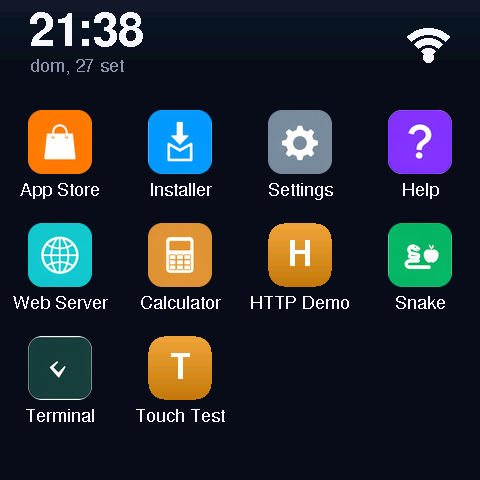
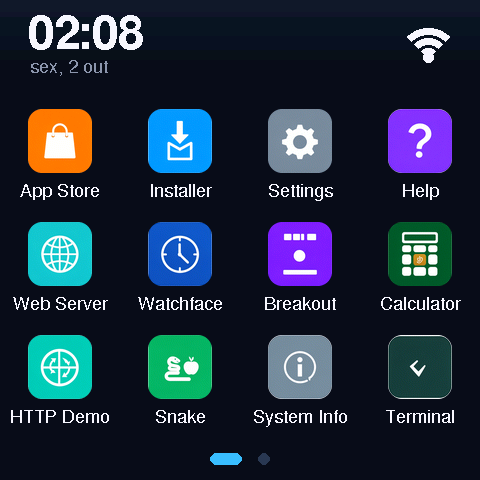
Docs: screenshots atuais (SmartDisplay + watch) e adeus as telas da era api 8
Telas recapturadas do framebuffer real via celerctl screencap:
- SmartDisplay 4" no firmware 1.4/API 13: launcher, App Store, Settings,
  Terminal (teclado acoplado) e Snake — substituem as capturas de 27/09,
  anteriores a onda da identidade CelerOS nos apps
- Watch Waveshare (novidade): watchface (papel de parede, passos, bateria)
  e launcher no vidro redondo 412x502 — entram no README e na pagina
  dedicada da wiki (EN + pt-BR)

Imagens velhas removidas: celeros-splash/about (sem como recapturar splash
pos-boot e About virou submenu), as 8 telas da CYD (firmware api 8, layout
antigo) e o cyd-webscreen (identidade antiga no espelho). A secao CYD do
README fica com o texto "o que esperar" + foto da placa; fotos de hardware
(cyd/dog/smartdisplay) continuam validas. zzpet-dog-photo.jpg saiu (nunca
referenciado).

Wiki: Home (EN + pt-BR) mostra launcher/App Store/Settings + par do watch;
Supported-Boards/Placas perdem a tabela de screenshots da CYD; as paginas
Web-Interface perdem o webscreen velho (texto continua).

Nota de bancada: screencap da CYD no 1.4.1 trava — o cabecalho do
SCREENSHOT so volta apos ~150 s (leitura do painel ILI9341 por SPI, sem
framebuffer na PSRAM) e o stream nao completa; na 1.2.0 funcionava. Por
isso a CYD ficou sem telas novas — merece uma olhada no caminho readRect.

diff --git a/README.pt-BR.md b/README.pt-BR.md
@@ -16,30 +16,23 @@ desenvolvimento.
 
 ## Screenshots
 
-| Splash de boot | Launcher | Terminal (teclado acoplado) |
-| :---: | :---: | :---: |
-| <img src="Documentation/assets/imgs/celeros-splash.png" width="260" alt="Splash de boot"/> | <img src="Documentation/assets/imgs/celeros-launcher.png" width="260" alt="Launcher"/> | <img src="Documentation/assets/imgs/celeros-terminal.png" width="260" alt="Terminal"/> |
-| **Settings → Sobre** | **Snake** | |
-| <img src="Documentation/assets/imgs/celeros-about.png" width="260" alt="Sobre"/> | <img src="Documentation/assets/imgs/celeros-snake.png" width="260" alt="Snake"/> | |
-
-*Capturas do framebuffer real de uma SmartDisplay 4" via `celerctl screencap`.*
-
-### CYD (2.8" 320x240, sem PSRAM)
-
 | Launcher | App Store | Settings |
 | :---: | :---: | :---: |
-| <img src="Documentation/assets/imgs/cyd-launcher.png" width="260" alt="Launcher na CYD"/> | <img src="Documentation/assets/imgs/cyd-appstore.png" width="260" alt="App Store na CYD"/> | <img src="Documentation/assets/imgs/cyd-settings.png" width="260" alt="Settings na CYD"/> |
-| **Terminal (teclado acoplado)** | **HTTP Demo** | **Snake** |
-| <img src="Documentation/assets/imgs/cyd-terminal.png" width="260" alt="Terminal na CYD"/> | <img src="Documentation/assets/imgs/cyd-httpdemo.png" width="260" alt="HTTP Demo na CYD"/> | <img src="Documentation/assets/imgs/cyd-snake.png" width="260" alt="Snake na CYD"/> |
-| **Settings → Sobre** | **Tela ao vivo no navegador** | |
-| <img src="Documentation/assets/imgs/cyd-about.png" width="260" alt="Sobre na CYD"/> | <img src="Documentation/assets/imgs/cyd-webscreen.png" width="260" alt="CYD espelhada no navegador"/> | |
+| <img src="Documentation/assets/imgs/celeros-launcher.png" width="260" alt="Launcher"/> | <img src="Documentation/assets/imgs/celeros-appstore.png" width="260" alt="App Store"/> | <img src="Documentation/assets/imgs/celeros-settings.png" width="260" alt="Settings"/> |
+| **Terminal (teclado acoplado)** | **Snake** | |
+| <img src="Documentation/assets/imgs/celeros-terminal.png" width="260" alt="Terminal"/> | <img src="Documentation/assets/imgs/celeros-snake.png" width="260" alt="Snake"/> | |
 
-*Capturas de uma ESP32-2432S028R clássica via `celerctl screencap` (firmware
-API 8 — acentos Latin-1 na tela). A última é o espelho web `/screen`: o
-navegador mostra a tela ao vivo e os cliques viram toques (veja a
-[página Interface web da wiki](https://github.com/maikramer/CelerOS/wiki/Interface-Web)).*
+*Capturas do framebuffer real de uma SmartDisplay 4" (firmware 1.4, API nível 13) via `celerctl screencap`.*
 
-#### O que esperar da CYD
+### Watch Waveshare AMOLED 2.06
+
+| Watchface (tela inicial) | Launcher |
+| :---: | :---: |
+| <img src="Documentation/assets/imgs/watch-watchface.png" width="220" alt="Mostrador do relógio"/> | <img src="Documentation/assets/imgs/watch-launcher.png" width="220" alt="Launcher do watch"/> |
+
+*O watch boota direto no mostrador (papel de parede, passos, bateria); swipe pra cima abre o launcher. Mesmo `celerctl screencap`, pelo USB nativo.*
+
+### CYD (2.8" 320x240, sem PSRAM)
 
 A CYD roda o mesmo firmware e os mesmos apps, mas é uma máquina bem menor que
 a SmartDisplay (ESP32 com ~320 KB de RAM e sem PSRAM, painel SPI de 2.8" e

diff --git a/README.md b/README.md
@@ -15,30 +15,23 @@ development.
 
 ## Screenshots
 
-| Boot splash | Launcher | Terminal (docked keyboard) |
-| :---: | :---: | :---: |
-| <img src="Documentation/assets/imgs/celeros-splash.png" width="260" alt="Boot splash"/> | <img src="Documentation/assets/imgs/celeros-launcher.png" width="260" alt="Launcher"/> | <img src="Documentation/assets/imgs/celeros-terminal.png" width="260" alt="Terminal"/> |
-| **Settings → About** | **Snake** | |
-| <img src="Documentation/assets/imgs/celeros-about.png" width="260" alt="About"/> | <img src="Documentation/assets/imgs/celeros-snake.png" width="260" alt="Snake"/> | |
-
-*Screenshots captured from the real framebuffer of a SmartDisplay 4" via `celerctl screencap`.*
-
-### CYD (2.8" 320x240, no PSRAM)
-
 | Launcher | App Store | Settings |
 | :---: | :---: | :---: |
-| <img src="Documentation/assets/imgs/cyd-launcher.png" width="260" alt="CYD launcher"/> | <img src="Documentation/assets/imgs/cyd-appstore.png" width="260" alt="CYD App Store"/> | <img src="Documentation/assets/imgs/cyd-settings.png" width="260" alt="CYD Settings"/> |
-| **Terminal (docked keyboard)** | **HTTP Demo** | **Snake** |
-| <img src="Documentation/assets/imgs/cyd-terminal.png" width="260" alt="CYD Terminal"/> | <img src="Documentation/assets/imgs/cyd-httpdemo.png" width="260" alt="CYD HTTP Demo"/> | <img src="Documentation/assets/imgs/cyd-snake.png" width="260" alt="CYD Snake"/> |
-| **Settings → About** | **Live screen from the browser** | |
-| <img src="Documentation/assets/imgs/cyd-about.png" width="260" alt="CYD About"/> | <img src="Documentation/assets/imgs/cyd-webscreen.png" width="260" alt="CYD mirrored in the browser"/> | |
+| <img src="Documentation/assets/imgs/celeros-launcher.png" width="260" alt="Launcher"/> | <img src="Documentation/assets/imgs/celeros-appstore.png" width="260" alt="App Store"/> | <img src="Documentation/assets/imgs/celeros-settings.png" width="260" alt="Settings"/> |
+| **Terminal (docked keyboard)** | **Snake** | |
+| <img src="Documentation/assets/imgs/celeros-terminal.png" width="260" alt="Terminal"/> | <img src="Documentation/assets/imgs/celeros-snake.png" width="260" alt="Snake"/> | |
 
-*Captured on a classic ESP32-2432S028R via `celerctl screencap` (API level 8
-firmware — Latin-1 accents on screen). The last one is the `/screen` web
-mirror: the browser shows the live display and its clicks become touches
-(see the [Web interface wiki page](https://github.com/maikramer/CelerOS/wiki/Web-Interface)).*
+*Screenshots captured from the real framebuffer of a SmartDisplay 4" (firmware 1.4, API level 13) via `celerctl screencap`.*
 
-#### What to expect on the CYD
+### Waveshare AMOLED 2.06 watch
+
+| Watchface (home screen) | Launcher |
+| :---: | :---: |
+| <img src="Documentation/assets/imgs/watch-watchface.png" width="220" alt="Watchface"/> | <img src="Documentation/assets/imgs/watch-launcher.png" width="220" alt="Watch launcher"/> |
+
+*The watch boots into its watch face (wallpaper, steps, battery); swipe up opens the launcher. Same `celerctl screencap`, over the native USB.*
+
+### CYD (2.8" 320x240, no PSRAM)
 
 The CYD runs the same firmware and the same apps, but it is a much smaller
 machine than the SmartDisplay (an ESP32 running on one core, ~320 KB of RAM

diff --git a/wiki/pages/Home.md b/wiki/pages/Home.md
@@ -13,18 +13,17 @@ Duktape JS engine running sandboxed apps from flash or SD, an App Store with
 over-the-air updates, and a USB companion tool (`celerctl`) for day-to-day
 development.
 
-| Boot splash | Launcher | Terminal (docked keyboard) |
+| Launcher | App Store | Settings |
 | :---: | :---: | :---: |
-| <img src="Documentation/assets/imgs/celeros-splash.png" width="240" alt="Boot splash"/> | <img src="Documentation/assets/imgs/celeros-launcher.png" width="240" alt="Launcher"/> | <img src="Documentation/assets/imgs/celeros-terminal.png" width="240" alt="Terminal"/> |
+| <img src="Documentation/assets/imgs/celeros-launcher.png" width="240" alt="Launcher"/> | <img src="Documentation/assets/imgs/celeros-appstore.png" width="240" alt="App Store"/> | <img src="Documentation/assets/imgs/celeros-settings.png" width="240" alt="Settings"/> |
+
+*Captured from the real framebuffer of a SmartDisplay 4" (firmware 1.4, API level 13) via `celerctl screencap`.*
+
+| Watchface on the Waveshare watch | Launcher on the watch |
+| :---: | :---: |
+| <img src="Documentation/assets/imgs/watch-watchface.png" width="200" alt="Watchface on the Waveshare watch"/> | <img src="Documentation/assets/imgs/watch-launcher.png" width="200" alt="Launcher on the watch"/> |
 
 *Captured from the real framebuffer of a SmartDisplay 4" via `celerctl screencap`.*
-
-| Launcher on the CYD | App Store on the CYD | Settings on the CYD |
-| :---: | :---: | :---: |
-| <img src="Documentation/assets/imgs/cyd-launcher.png" width="240" alt="Launcher on the CYD"/> | <img src="Documentation/assets/imgs/cyd-appstore.png" width="240" alt="App Store on the CYD"/> | <img src="Documentation/assets/imgs/cyd-settings.png" width="240" alt="Settings on the CYD"/> |
-
-*CYD (320x240, no PSRAM): same core, simpler experience — see
-[Supported boards](/maikramer/CelerOS/wiki/Supported-Boards#cyd-classic-esp32).*
 
 ## Wiki map
 

diff --git a/wiki/pages/Home.pt-BR.md b/wiki/pages/Home.pt-BR.md
@@ -14,18 +14,15 @@ isolada a partir da flash ou do SD, App Store com atualização over-the-air e
 uma ferramenta companheira via USB (`celerctl`) para o dia a dia de
 desenvolvimento.
 
-| Splash de boot | Launcher | Terminal (teclado acoplado) |
+| Launcher | App Store | Settings |
 | :---: | :---: | :---: |
-| <img src="Documentation/assets/imgs/celeros-splash.png" width="240" alt="Splash de boot"/> | <img src="Documentation/assets/imgs/celeros-launcher.png" width="240" alt="Launcher"/> | <img src="Documentation/assets/imgs/celeros-terminal.png" width="240" alt="Terminal"/> |
+| <img src="Documentation/assets/imgs/celeros-launcher.png" width="240" alt="Launcher"/> | <img src="Documentation/assets/imgs/celeros-appstore.png" width="240" alt="App Store"/> | <img src="Documentation/assets/imgs/celeros-settings.png" width="240" alt="Settings"/> |
 
-*Capturas do framebuffer real de uma SmartDisplay 4" via `celerctl screencap`.*
+*Capturas do framebuffer real de uma SmartDisplay 4" (firmware 1.4, API nível 13) via `celerctl screencap`.*
 
-| Launcher na CYD | App Store na CYD | Settings na CYD |
-| :---: | :---: | :---: |
-| <img src="Documentation/assets/imgs/cyd-launcher.png" width="240" alt="Launcher na CYD"/> | <img src="Documentation/assets/imgs/cyd-appstore.png" width="240" alt="App Store na CYD"/> | <img src="Documentation/assets/imgs/cyd-settings.png" width="240" alt="Settings na CYD"/> |
-
-*CYD (320x240, sem PSRAM): mesma base, experiência mais simples — veja
-[Placas suportadas](/maikramer/CelerOS/wiki/Placas-Suportadas#cyd-esp32-clássico).*
+| Watchface no watch Waveshare | Launcher no watch |
+| :---: | :---: |
+| <img src="Documentation/assets/imgs/watch-watchface.png" width="200" alt="Mostrador no watch Waveshare"/> | <img src="Documentation/assets/imgs/watch-launcher.png" width="200" alt="Launcher no watch"/> |
 
 ## Mapa da wiki
 

diff --git a/wiki/pages/Placas-Suportadas.md b/wiki/pages/Placas-Suportadas.md
@@ -61,15 +61,7 @@ controláveis com `System.relay` (partem desligados no boot).
 
 ### CYD (ESP32 clássico)
 
-| Launcher | App Store | Settings |
-| :---: | :---: | :---: |
-| <img src="Documentation/assets/imgs/cyd-launcher.png" width="240" alt="Launcher na CYD"/> | <img src="Documentation/assets/imgs/cyd-appstore.png" width="240" alt="App Store na CYD"/> | <img src="Documentation/assets/imgs/cyd-settings.png" width="240" alt="Settings na CYD"/> |
-| **Terminal** | **HTTP Demo** | **Snake** |
-| <img src="Documentation/assets/imgs/cyd-terminal.png" width="240" alt="Terminal na CYD"/> | <img src="Documentation/assets/imgs/cyd-httpdemo.png" width="240" alt="HTTP Demo na CYD"/> | <img src="Documentation/assets/imgs/cyd-snake.png" width="240" alt="Snake na CYD"/> |
-
 **O que esperar:**
-
-
 A CYD roda o mesmo firmware e os mesmos apps, mas é uma máquina bem menor que
 a SmartDisplay (ESP32 com ~320 KB de RAM e sem PSRAM, painel SPI de 2.8" e
 toque resistivo), então a experiência é visivelmente mais simples:

diff --git a/wiki/pages/Supported-Boards.md b/wiki/pages/Supported-Boards.md
@@ -61,12 +61,6 @@ controllable with `System.relay` (they start off at boot).
 
 ### CYD (classic ESP32)
 
-| Launcher | App Store | Settings |
-| :---: | :---: | :---: |
-| <img src="Documentation/assets/imgs/cyd-launcher.png" width="240" alt="Launcher on the CYD"/> | <img src="Documentation/assets/imgs/cyd-appstore.png" width="240" alt="App Store on the CYD"/> | <img src="Documentation/assets/imgs/cyd-settings.png" width="240" alt="Settings on the CYD"/> |
-| **Terminal** | **HTTP Demo** | **Snake** |
-| <img src="Documentation/assets/imgs/cyd-terminal.png" width="240" alt="Terminal on the CYD"/> | <img src="Documentation/assets/imgs/cyd-httpdemo.png" width="240" alt="HTTP Demo on the CYD"/> | <img src="Documentation/assets/imgs/cyd-snake.png" width="240" alt="Snake on the CYD"/> |
-
 **What to expect:**
 
 The CYD runs the same firmware and the same apps, but it is a much smaller

diff --git a/wiki/pages/Watch-Waveshare.pt-BR.md b/wiki/pages/Watch-Waveshare.pt-BR.md
@@ -11,6 +11,13 @@ sequências de init do painel foram portados do firmware Rust
 poupou desta placa a arqueologia de registradores por JTAG que o
 [robô cachorro](/maikramer/CelerOS/wiki/Robo-Cachorro) precisou.
 
+| Watchface (tela inicial) | Launcher |
+| :---: | :---: |
+| <img src="Documentation/assets/imgs/watch-watchface.png" width="230" alt="Mostrador no watch"/> | <img src="Documentation/assets/imgs/watch-launcher.png" width="230" alt="Launcher no watch"/> |
+
+*Capturas com `celerctl screencap` pelo USB nativo: o mostrador (papel de
+parede, passos, bateria) é a tela inicial; swipe pra cima abre o launcher.*
+
 ## Hardware
 
 | Item | Valor |

diff --git a/wiki/pages/Waveshare-Watch.md b/wiki/pages/Waveshare-Watch.md
@@ -11,6 +11,13 @@ firmware for the same watch), which kept this board from needing the
 JTAG-register archaeology the [robot dog](/maikramer/CelerOS/wiki/Robot-Dog)
 required.
 
+| Watchface (home screen) | Launcher |
+| :---: | :---: |
+| <img src="Documentation/assets/imgs/watch-watchface.png" width="230" alt="Watchface on the watch"/> | <img src="Documentation/assets/imgs/watch-launcher.png" width="230" alt="Launcher on the watch"/> |
+
+*Captured with `celerctl screencap` over the native USB: the watch face
+(wallpaper, steps, battery) is the home screen; swipe up opens the launcher.*
+
 ## Hardware
 
 | Item | Value |

diff --git a/wiki/pages/Web-Interface.md b/wiki/pages/Web-Interface.md
@@ -6,14 +6,6 @@ Every device with Wi-Fi connected runs a small web server. Open the IP shown
 in the Web Server app (or in `celerctl info`) from any browser on the same
 network to manage files, upload firmware and watch the live screen.
 
-<p align="center">
-  <img src="Documentation/assets/imgs/cyd-webscreen.png" width="640" alt="Live screen mirror in the browser"/>
-</p>
-
-*A CYD mirrored in the browser at `/screen`: Settings was opened by
-clicking on the icon **through the mirror**. The status line shows
-resolution, fps and bandwidth.*
-
 ## Authentication
 
 All pages are protected by HTTP Basic Auth:

diff --git a/wiki/pages/Interface-Web.md b/wiki/pages/Interface-Web.md
@@ -7,14 +7,6 @@ mostrado no app Web Server (ou no `celerctl info`) em qualquer navegador da
 mesma rede para gerenciar arquivos, enviar firmware e assistir a tela ao
 vivo.
 
-<p align="center">
-  <img src="Documentation/assets/imgs/cyd-webscreen.png" width="640" alt="Espelho da tela ao vivo no navegador"/>
-</p>
-
-*Uma CYD espelhada no navegador em `/screen`: o Settings foi aberto
-clicando no ícone **através do espelho**. A linha de status mostra
-resolução, fps e banda.*
-
 ## Autenticação
 
 Todas as páginas ficam atrás de HTTP Basic Auth:
